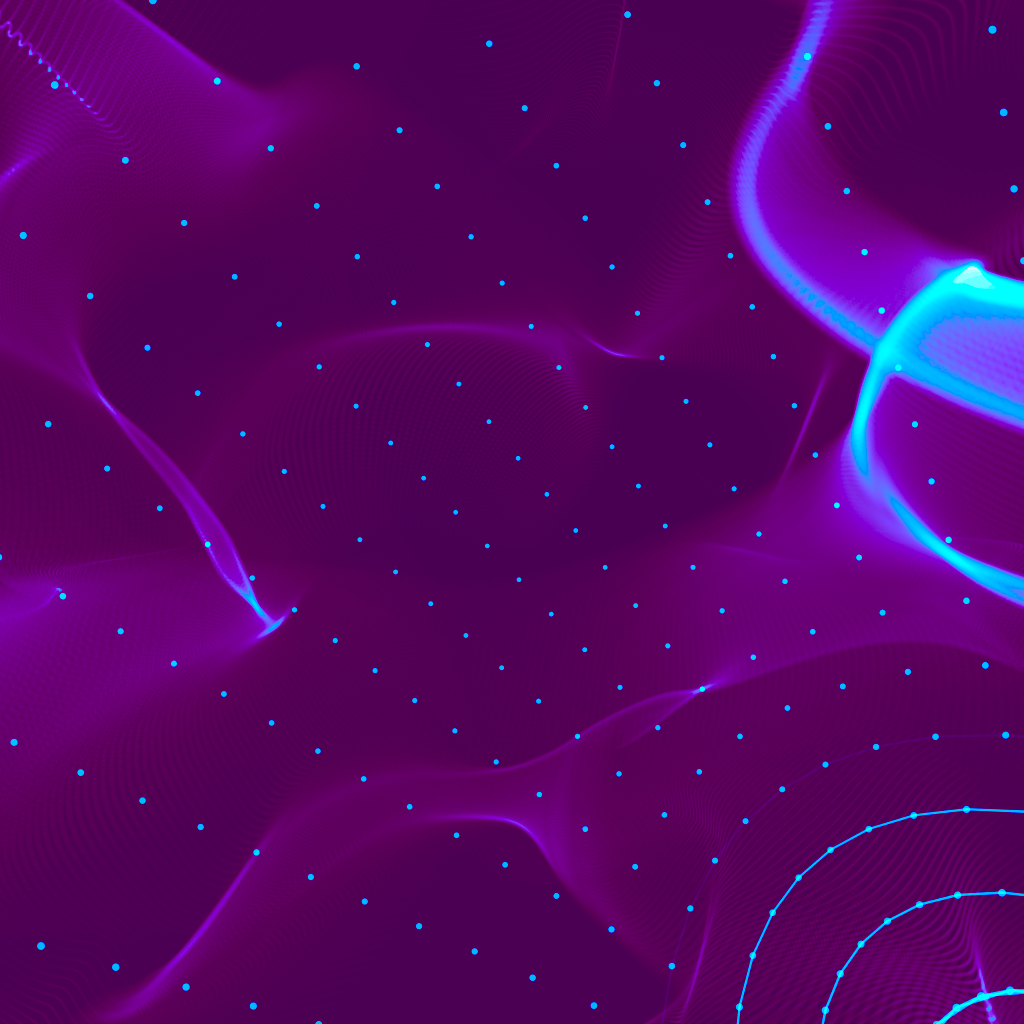
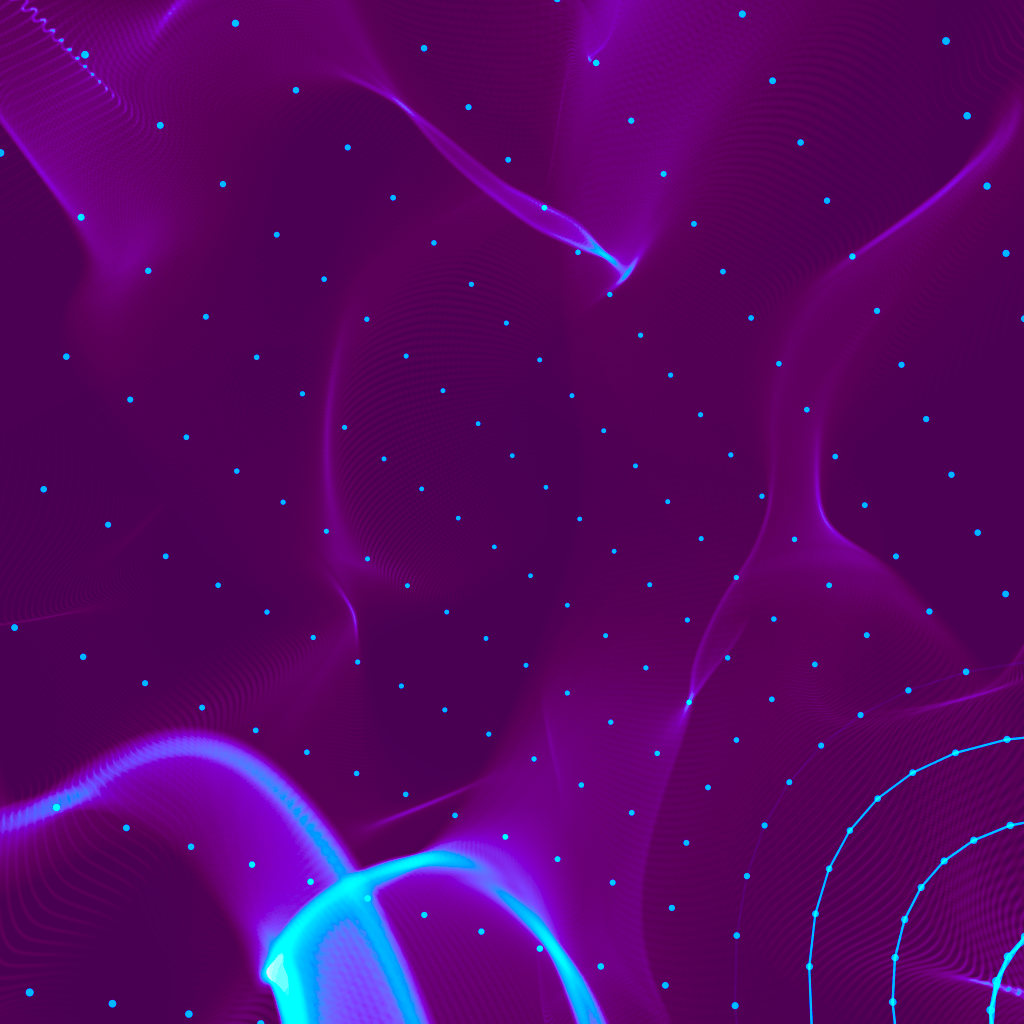
added method to generate vector perpendicular to track.

diff --git a/KesselRunGame/KesselRunGame/Program.cs b/KesselRunGame/KesselRunGame/Program.cs
@@ -111,7 +111,7 @@ namespace Examples.Tutorial
         
         float trackLength = 0;
 
-        private float velocity = 1000.0f; // velocity = units / updateCounter = x / 1sec (60fps/60)
+        private float velocity = 2.0f; // velocity = units / updateCounter = x / 1sec (60fps/60)
         private float distFromStart;
         
 
@@ -122,7 +122,7 @@ namespace Examples.Tutorial
             // Initialize Camera
             Camera.Init();
             Camera.SetWidthHeightFov(1280, 720, 60);
-            Camera.SetLookAt(new Vector3(0, 0, 3), new Vector3(0, 0, 0), Vector3.UnitY);
+            Camera.SetLookAt(new Vector3(0, 0, 3), new Vector3(0, 0, 0), Vector3.UnitZ);
 
             // Initialize Light
             cgimin.engine.light.Light.SetDirectionalLight(new Vector3(1, -1, 2), new Vector4(0.3f, 0.3f, 0.3f, 0), new Vector4(0.8f, 0.8f, 0.8f, 0), new Vector4(1, 1, 1, 0));
@@ -275,9 +275,10 @@ namespace Examples.Tutorial
                 //octree.AddEntity(new OctreeEntity(smoothObject, normalMappingCubeSpecularMaterial, blueShinyStoneSettings, Matrix4.CreateTranslation(point[0], point[1], point[2])));
                 // calculate length of vector form old to new point and add to trackLength
                 trackLength += new Vector3(point[0] - oldPoint[0], point[1] - oldPoint[1], point[2] - oldPoint[2]).Length;
+                oldPoint = point;
+                Console.WriteLine(trackLength);
             }
-            Console.WriteLine("[INFO]    trackLength: " + trackLength);
-
+            
         }
 
         private void KeyDownEvent(object sender, OpenTK.Input.KeyboardKeyEventArgs e)
@@ -367,5 +368,15 @@ namespace Examples.Tutorial
         }
 
 
+        Vector3 getPerpendicular(Vector3 x)
+        {
+            Random rnd = new Random(1567845648);
+            Vector3 e = new Vector3((float)rnd.Next(0,9999)/100, (float)rnd.Next(0,9999)/100, (float)rnd.Next(0,9999)/100); // create random vector e
+            while (e.Normalized().Equals(x.Normalized())) // recreate vector e if it is parallel to x
+            {
+                e = new Vector3((float)rnd.Next(0,9999)/100, (float)rnd.Next(0,9999)/100, (float)rnd.Next(0,9999)/100);
+            }
+            return Vector3.Cross(x, e).Normalized(); // return the normalized cross product of input and random vector to get a unit vector perpendicular to x
+        }
     }
 }
